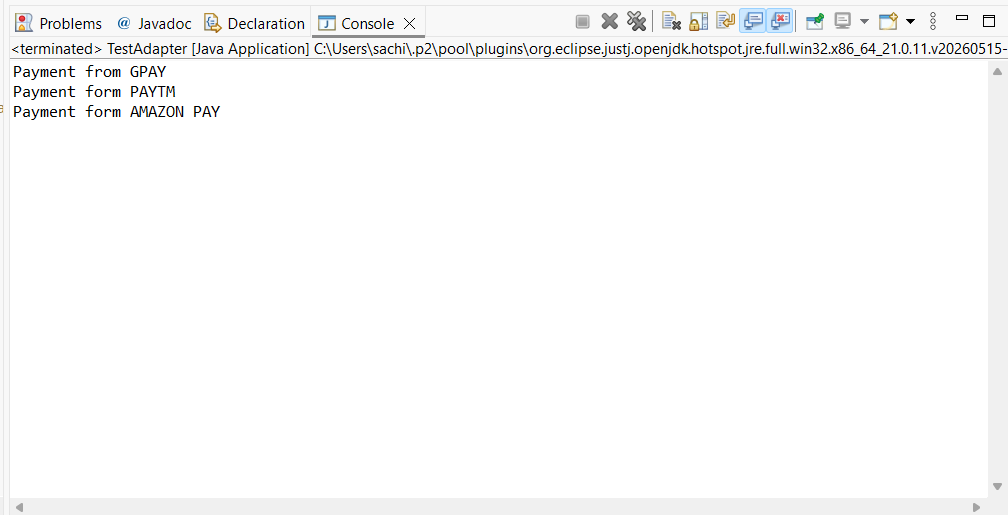
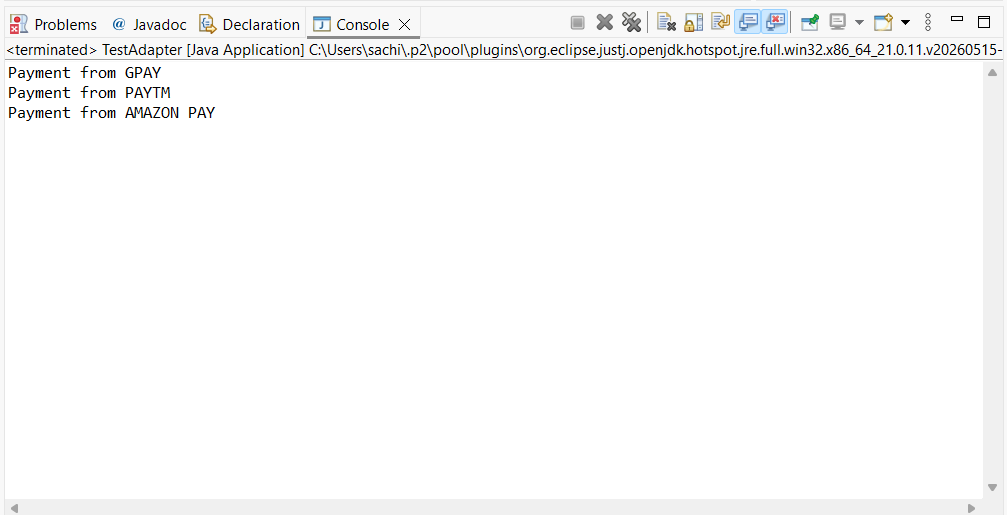
implemented Adapter Pattern

diff --git a/Week_1/AdapterPatternExample/src/com/Adapter/AmazonPay.java b/Week_1/AdapterPatternExample/src/com/Adapter/AmazonPay.java
@@ -2,7 +2,7 @@ package com.Adapter;
 
 public class AmazonPay {
 	void amazonPay() {
-		System.out.println("Payment form AMAZON PAY");
+		System.out.println("Payment from AMAZON PAY");
 	}
 
 }

diff --git a/Week_1/AdapterPatternExample/src/com/Adapter/Paytm.java b/Week_1/AdapterPatternExample/src/com/Adapter/Paytm.java
@@ -2,7 +2,7 @@ package com.Adapter;
 
 public class Paytm {
 	void paytmPay() {
-		System.out.println("Payment form PAYTM");
+		System.out.println("Payment from PAYTM");
 	}
 
 }